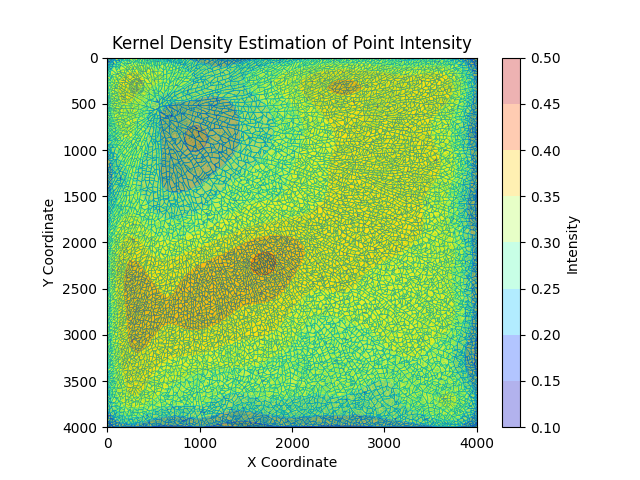
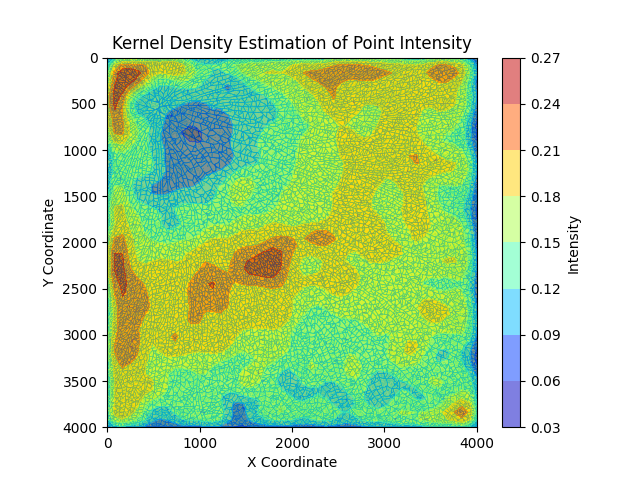
create subfolder for output

diff --git a/fracsuite/splinters/analyzer.py b/fracsuite/splinters/analyzer.py
@@ -484,6 +484,8 @@ class Analyzer(object):
         # folder operations
         self.file_dir = os.path.dirname(file_path)
         self.out_dir = os.path.join(self.file_dir, config.out_name)
+        
+        self.out_dir = os.path.join(self.out_dir, os.path.splitext(os.path.basename(file_path))[0])
         if not os.path.exists(self.out_dir):
             os.makedirs(self.out_dir)
             
@@ -615,10 +617,10 @@ class Analyzer(object):
         
         #TODO: compare voronoi splinter size distribution to actual distribution
         # X,Y,Z = csintkern(events, region, 500)        
-        X, Y, Z = csintkern_optimized(events, region)
+        X, Y, Z = csintkern_optimized(events, region, 250)
         fig = plt.figure()
-        plt.imshow(self.preprocessed_image)
-        plt.contourf(X, Y, Z, cmap='jet', alpha=0.3)
+        plt.imshow(self.image_contours)
+        plt.contourf(X, Y, Z, cmap='jet', alpha=0.5)
         plt.colorbar(label='Intensity')
         # plt.scatter([x[0] for x in centroids], [x[1] for x in centroids], color='red', alpha=0.5, label='Data Points')
         # plt.legend()
